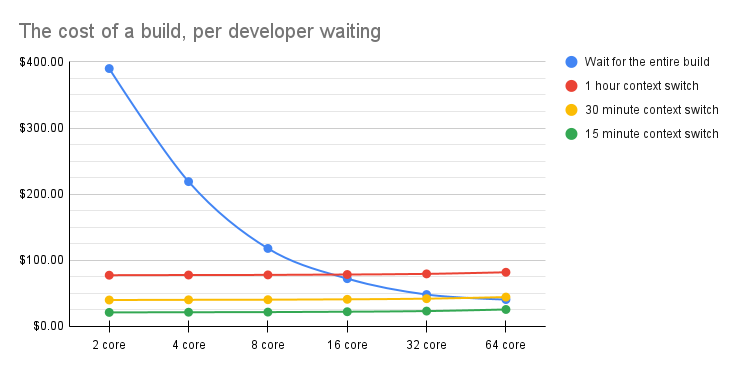
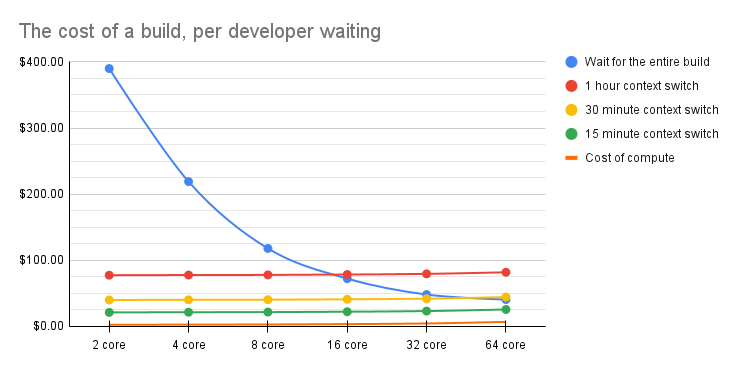
add part 2

Changed region(s): [[0.1558, 0.8598, 0.6856, 0.8895], [0.748, 0.4151, 0.9038, 0.4447]]

diff --git a/_posts/2022-10-10-waiting-on-builds-pt-2.md b/_posts/2022-10-10-waiting-on-builds-pt-2.md
@@ -1,0 +1,56 @@
+---
+title: "The cost of waiting on builds, part 2"
+date: 2022-10-10
+categories:
+  - blog
+tags:
+  - CI
+  - linux
+  - business
+classes: wide
+---
+
+Expanding on [part 1](https://some-natalie.dev/blog/waiting-on-bulids/), let's take a closer look at context switching times for developers, the effect of developer compensation on this problem, do a little math, and answer the inevitable question on self-hosting.
+
+### Context switch times
+
+In part 1, the time it took for each developer to put down the last project after kicking off a build/test suite/whatever to the time it took to be productive in another project was assumed to be an hour.  There's some good research on this being significantly shorter (23 minutes[^1] or 10 minutes[^2] according to the sources cited below), so let's shorten that to half an hour and 15 minutes, respectively:
+
+|  | Minutes | Cost of 1 build | Partial dev cost<br>(1 dev, 30 mins) | Partial dev cost<br>(5 devs, 30 mins) | Partial dev cost<br>(1 dev, 15 mins) | Partial dev cost<br>(5 devs, 15 mins) |
+|---|---|---|---|---|---|---|
+| 2 core | 310 | $2.48 | $39.98 | $189.98 | $21.23 | $96.23 |
+| 4 core | 173 | $2.77 | $40.27 | $190.27 | $21.52 | $96.52 |
+| 8 core | 92 | $2.94 | $40.44 | $190.44 | $21.69 | $96.69 |
+| 16 core | 55 | $3.52 | $41.02 | $191.02 | $22.27 | $97.27 |
+| 32 core | 35 | $4.48 | $41.98 | $191.98 | $23.23 | $98.23 |
+| 64 core | 27 | $6.91 | $44.41 | $194.41 | $25.66 | $100.66 |
+
+Visualized, here's what the cost of a build is for a single developer waiting or switching tasks.  Note that the cost of the compute is on the bottom line, barely above the X-axis:
+
+![graph-cost-per-dev](/assets/graphics/2022-10-10-build-cost-2.png)
+
+At the assumed hourly rate of $75 (USD) an hour, there's basically no point where it doesn't make sense to pay for additional compute to make the job run faster _if_ there are developers waiting on the task.  It costs about $15 an hour for the largest compute option available, or a fifth of the hourly cost of a single developer.
+
+### Keeping costs in check
+
+Let's talk a tiny bit about the cost of labor, since it's such a big (and variable) part of the equation here.  The [spreadsheet](https://docs.google.com/spreadsheets/d/1ostvpK8jmC13U25bdyekyBV9uS8xydLV14q2ZwaH24k) is publicly available, so feel free to make a copy yourself and edit the average annual cost of each developer.  Note that this should be _cost_ including things like fringe benefits and employment taxes, not _salary_ (usually one component of compensation in the US).  Even cutting the cost of compensation in half doesn't fundamentally change the picture.  The cost of compute time is still significantly lower than the cost of developer time.
+
+If there are developers waiting on builds, it makes sense to spend a little more on compute to keep that time wasted to a minimum.  That doesn't mean that every task needs big compute, though.  [Linting](https://github.com/github/super-linter) code, pull request checks (like [this](https://github.com/peckjon/reject-pr-approval-from-committer) or [this](https://github.com/actions/dependency-review-action)), and other automation likely doesn't need the same compute power as compiling software and running tests.
+
+### It's cheaper to run it myself
+
+It can definitely look that way if you only look at the cost of compute.  As compute has become more of a commodity good and pricing has become more complicated, taking a deep dive into cloud hosting or datacenter pricing is way beyond the scope of this little blog post.  Once you account for regional differences in pricing, spot pricing versus committed spend pricing, network ingress and egress, and supporting infrastructure (if needed), the pricing is less of a distinction.  
+
+I've spent most of my career self-hosting almost everything in datacenters, including build compute, so I'd like to instead pivot to all the costs that can't be accounted for in a cloud/datacenter pricing table in the next post.  It's been my experience that these are the costs that get overlooked and make the difference between project success or failure if not accounted for.
+
+#### Disclosure
+
+I work at GitHub as a solutions engineer at the time of writing this.  All opinions are my own.
+
+---
+
+#### Footnotes
+
+[^1]: Gloria Mark, Daniela Gudith, and Ulrich Kiocke. “The Cost of Interrupted Work: More Speed and Stress” 2008, <https://www.ics.uci.edu/~gmark/chi08-mark.pdf>
+
+[^2]: Qatalog and Cornell University’s Idea Lab. "Workgeist Report ‘21" 2021, <https://assets.qatalog.com/language.work/qatalog-2021-workgeist-report.pdf>
